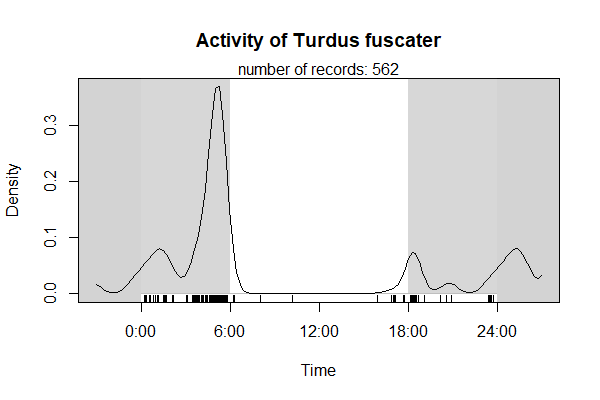
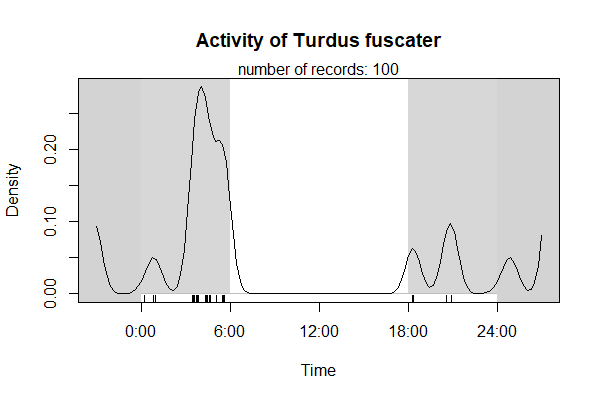
update monitoreo aves con birdnet

diff --git a/_posts/2025-06-15-Monitoreando-aves-con-Birdnet.md b/_posts/2025-06-15-Monitoreando-aves-con-Birdnet.md
@@ -16,9 +16,8 @@ tags:
   - monitoreo
 last_modified_at: 2025-06-15T13:05:25-05:00
 feature_row:
-  - image_path: https://dlizcano.github.io/images/cameratrapblog/people.jpg
-  - image_path: https://dlizcano.github.io/images/cameratrapblog/kids.jpg
-  - image_path: https://dlizcano.github.io/images/cameratrapblog/puma.JPG
+  - image_path: https://dlizcano.github.io/images/birdnetpi/TurdusActivity.png
+
 ---
 
 ## Monitoreo acustico de aves 
@@ -35,7 +34,7 @@ Siguiendo el tutorial, el montaje y la instalación del BirdNET-Pi fue muy senci
 
 ![image](https://dlizcano.github.io/images/birdnetpi/BirdNetPi_setup.jpg)
 
-En un comienzo lo instale en la ventana de mi apartamento, pero muy pronto note que solo estaba registrando a la gente, los perros y los carros, ya que la ventana daba a la parte interna y el parqueadero de los edificios. Así que decidí moverlo a la ventana del apartamento que mis suegros, que da hacia la parte exterior de los edificios donde hay algunos potreros con vacas y cercas de pinos. Con esta nueva localización el dispositivo quedo registrado como la [estación 754 en birdweather](https://t.co/vKG0YMxY6K). Luego de un poco más de un año funcionando continuamente decidí recoger el aparato para reutilizar el Raspberry pi en otro proyecto. 
+En un comienzo lo instale en la ventana de mi apartamento, pero muy pronto note que solo estaba registrando a la gente, los perros y los carros, ya que la ventana daba a la parte interna y el parqueadero de los edificios. Así que decidí moverlo a la ventana del apartamento de mis suegros, que da hacia la parte exterior de los mismos edificios en Cajica, donde hay algunos potreros con vacas y cercas de pinos. Con esta nueva localización el dispositivo quedo registrado como la [estación 754 en birdweather](https://t.co/vKG0YMxY6K). Luego de un poco más de un año funcionando continuamente decidí recoger el aparato para reutilizar el Raspberry pi en otro proyecto. 
 
 Junto con la instalación del BirdNET-Pi me di a la tarea de crear una cuenta en twitter llamada [BirdNET Pi Cajica](https://x.com/BirdNetPi_Cajic), para registrar las detecciones de forma automática, pero desafortunadamente, con la compra de twitter y su conversión a X, las políticas de las API para crear cuentas automatizadas cambiaron y la cuenta quedo desactivada luego de unos pocos meses.  
 
@@ -88,6 +87,43 @@ tbl_img  %>% kbl(booktabs = T) %>%
   height="400"
   src="/content/BirdNetPi_Cajic.html">
 </iframe>
+
+### Extrayendo mas detalles de una especie
+
+Para obtener más datos de una especie se puede usar el [Get detections)(https://app.birdweather.com/api/v1/index.html#detections-detection-get) que acoplado a los paquetes de R httr y jsonlite, hacen que el manejo de la API sea muy fácil. 
+
+Para este ejemplo extraeremos las detecciones del mes de Marzo del 2023 y usando la magia del paquete camtrapR vamos a obtener una gráfica del patrón de actividad de ese mes. 
+
+
+```r
+library(httr)
+library(jsonlite)
+library(tidyverse)
+library(camtrapR)
+
+#  get turdus detections and select a few columns
+turdus_mar <- GET("https://app.birdweather.com/api/v1/stations/{API-KEYword-del-dispositivo}/detections?from=2023-03-01&to=2023-03-31&speciesId=422&locale=es")
+turdus_mar_data = fromJSON(rawToChar(turdus_mar$content))
+turdus_mar_detections <- as.data.frame(turdus_mar_data$detections)|> 
+  dplyr::select(c(id, timestamp, confidence, probability, score, certainty)) |> 
+   mutate(Species="Turdus fuscater")
+
+# fix datetime stamp
+turdus_mar_detections$DateTime <- str_replace(turdus_mar_detections$timestamp, "T", " ") |> 
+  str_sub(start=1,end=19) |> strptime ("%Y-%m-%d %H:%M:%S")
+
+########### Activity Plot
+activityDensity (recordTable = turdus_mar_detections,
+                 species     = "Turdus fuscater",
+                 recordDateTimeCol="DateTime") 
+rect(0, 0, 6, 0.9, col= rgb(0.211,0.211,0.211, alpha=0.2), border = "transparent")
+rect(18, 0, 24, 0.9, col= rgb(0.211,0.211,0.211, alpha=0.2), border = "transparent")
+
+```
+
+{% include feature_row %}
+
+Es una lástima que las detecciones tengan un límite de 100 registros. Tal vez para hacerlo más detallado habría que bajar los datos diariamente. 
 
 El entusiasmo con el monitoreo acústico no ha parado. Recientemente instale un [dispositivo igualito en la casa de mis padres en Cúcuta](https://app.birdweather.com/stations/2595). Pero esta vez usando el nuevo [código de BirdNet implementado en GO](https://github.com/tphakala/birdnet-go). Si bien tiene menos "features" y no viene con apraise, me parece que funciona bastante bien, siendo ligero y eficiente. 
 
